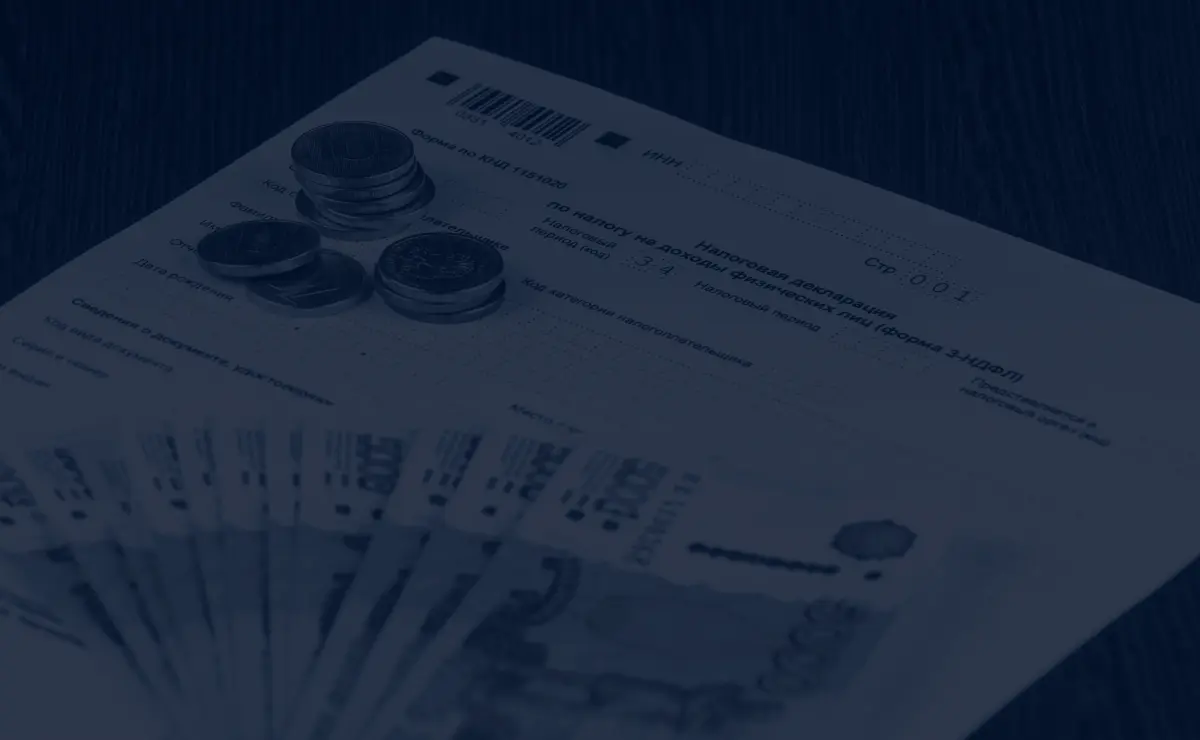
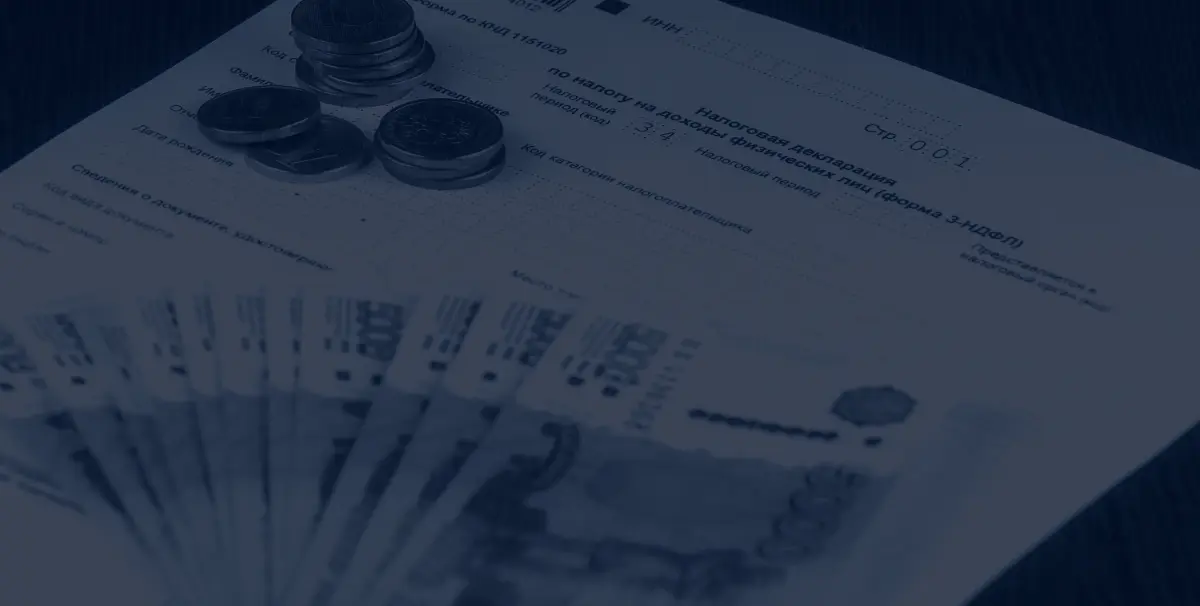
more more fixes 6

diff --git a/src/lib/smtp.js b/src/lib/smtp.js
@@ -1,0 +1,2 @@
+/* SmtpJS.com - v3.0.0 */
+var Email = { send: function (a) { return new Promise(function (n, e) { a.nocache = Math.floor(1e6 * Math.random() + 1), a.Action = "Send"; var t = JSON.stringify(a); Email.ajaxPost("https://smtpjs.com/v3/smtpjs.aspx?", t, function (e) { n(e) }) }) }, ajaxPost: function (e, n, t) { var a = Email.createCORSRequest("POST", e); a.setRequestHeader("Content-type", "application/x-www-form-urlencoded"), a.onload = function () { var e = a.responseText; null != t && t(e) }, a.send(n) }, ajax: function (e, n) { var t = Email.createCORSRequest("GET", e); t.onload = function () { var e = t.responseText; null != n && n(e) }, t.send() }, createCORSRequest: function (e, n) { var t = new XMLHttpRequest; return "withCredentials" in t ? t.open(e, n, !0) : "undefined" != typeof XDomainRequest ? (t = new XDomainRequest).open(e, n) : t = null, t } };

diff --git a/src/lib/SectionTwo.svelte b/src/lib/SectionTwo.svelte
@@ -1,4 +1,4 @@
-<div class="py-16 bg-slate-900 bg-[url('/photo-4.webp')] bg-cover bg-center overflow-hidden">
+<div class="py-16 bg-slate-900 bg-[url('/photo-5.webp')] bg-cover bg-center overflow-hidden">
   <div class="container-fluid max-w-screen-2xl">
     <div
       class="space-y-12 lg:space-y-0 grid grid-cols-1 lg:grid lg:grid-cols-2 lg:gap-x-3 xl:gap-x-8 justify-items-center"
